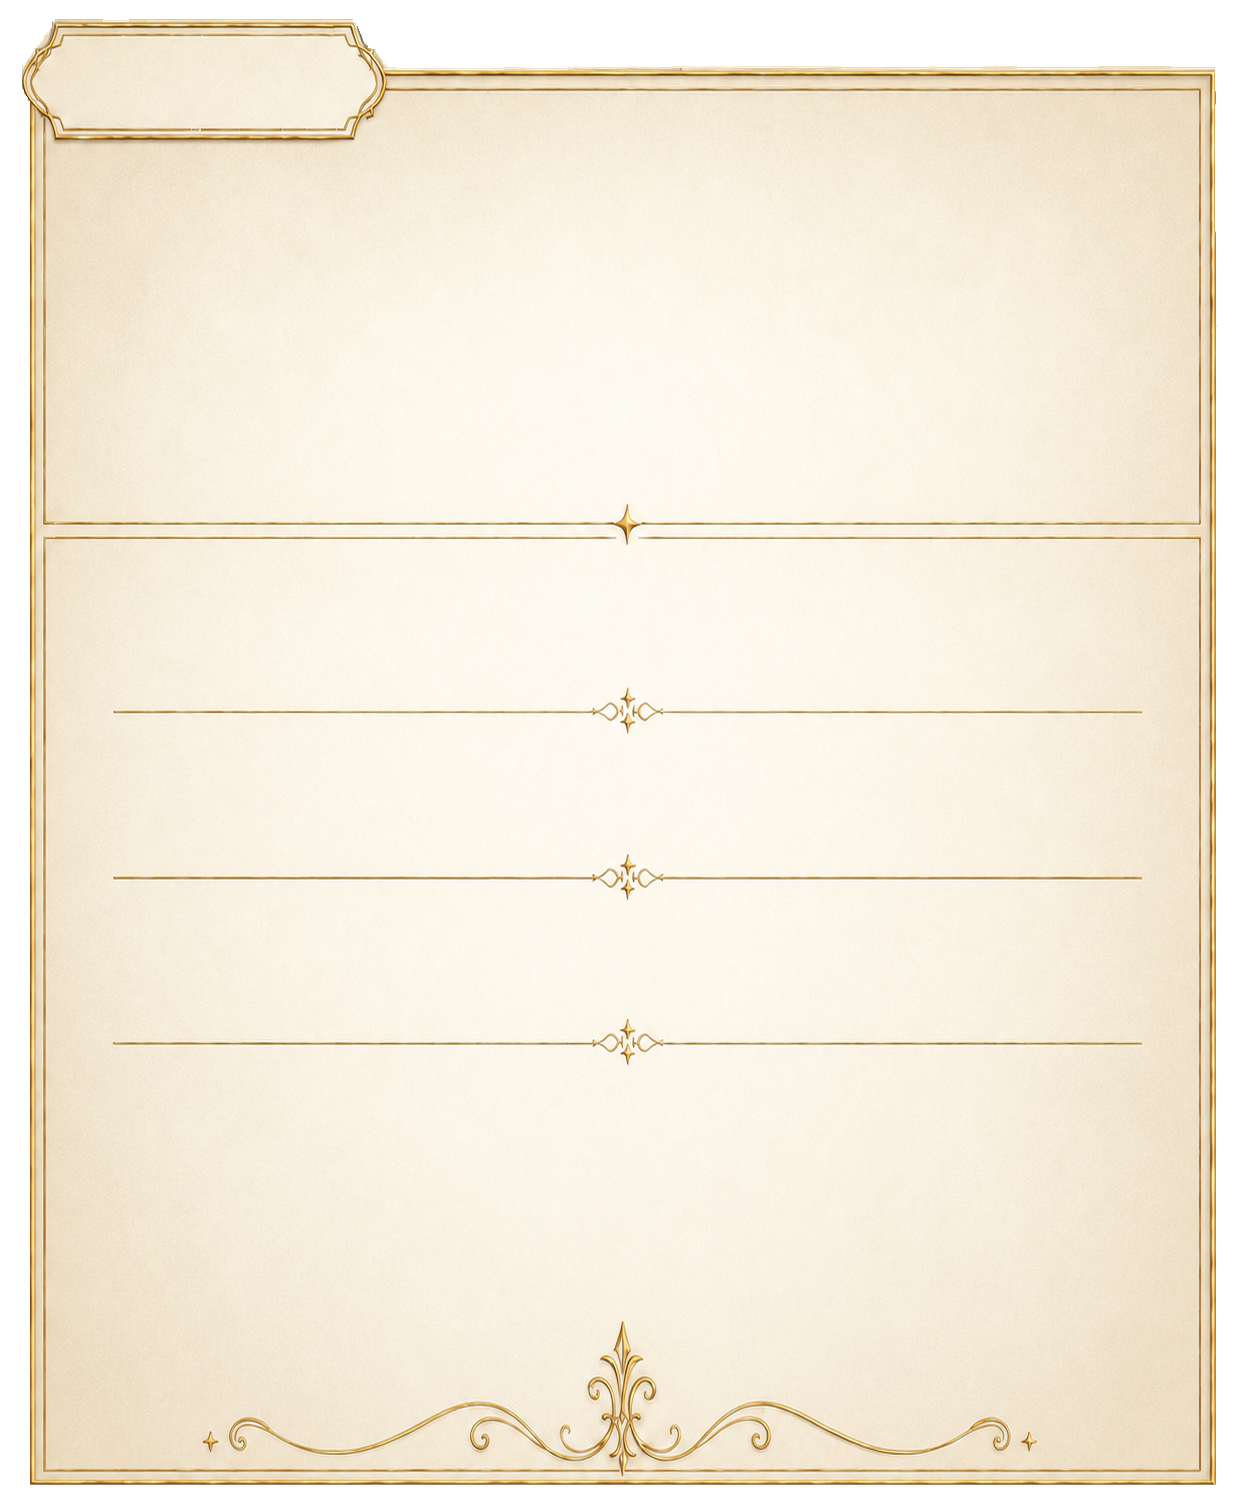
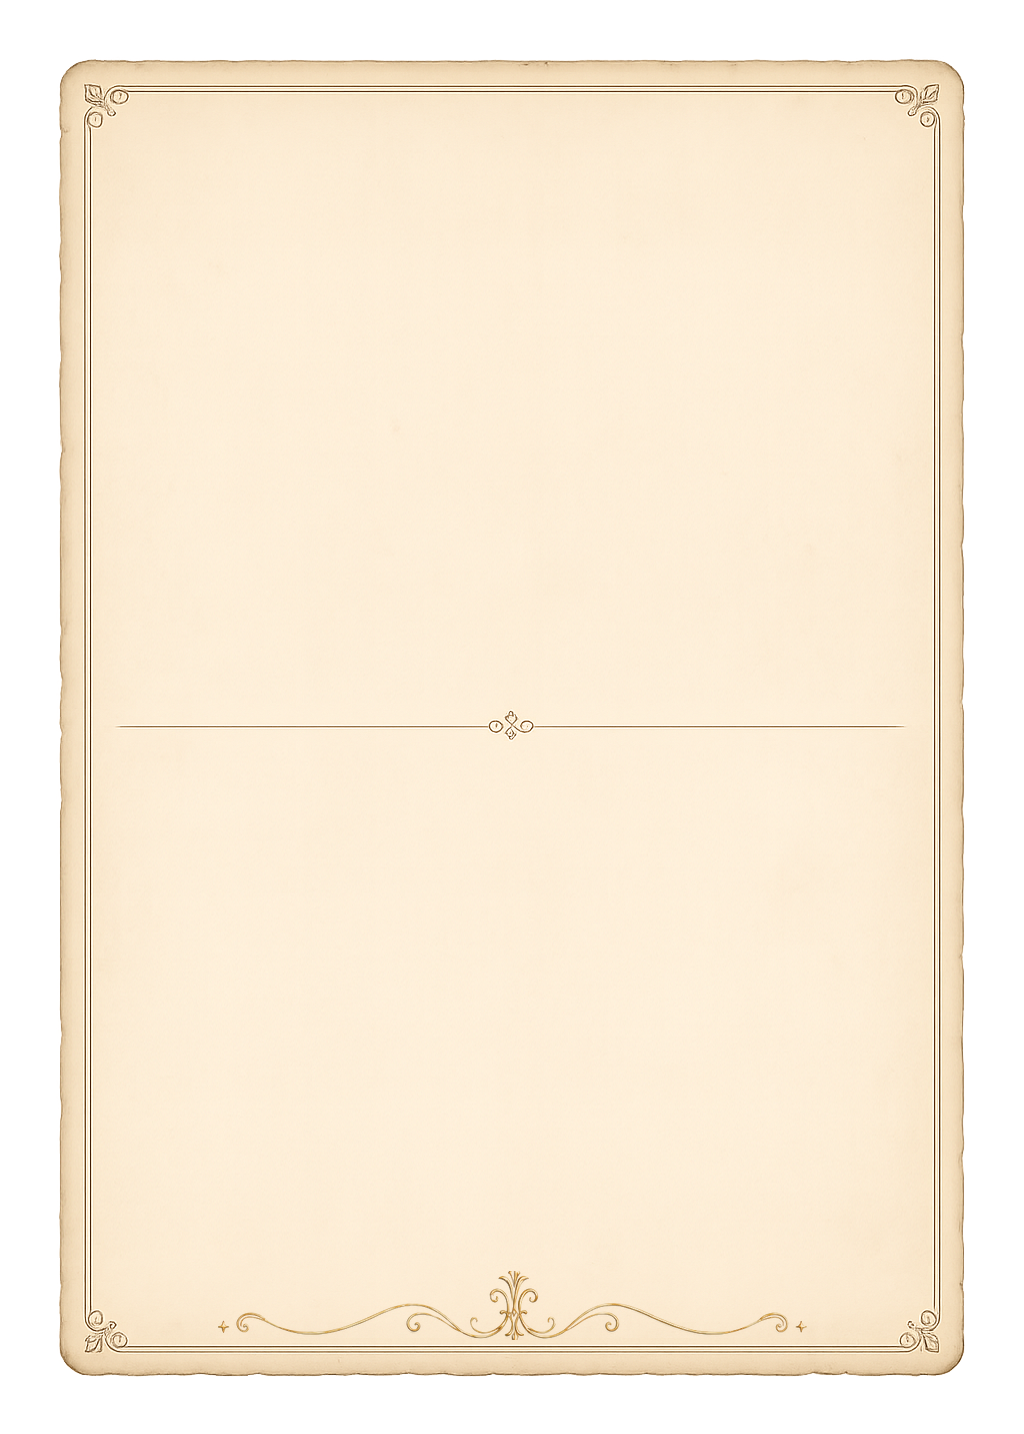
feat(町/会話): アバター会話のステータス枠を新素材(中央仕切り線・縦長1.4)へ差替＋上=6項目/下=覚えた単語を新比率で再配置(値は母語長文を2行対応)／「メッセージを送る」ボタンを会話画像とステータスの間へ移動(友だちのみ)

diff --git a/src/screens/KotobaTownScreen.tsx b/src/screens/KotobaTownScreen.tsx
@@ -914,7 +914,7 @@ export default function KotobaTownScreen() {
         const dlgW = Math.round(SW * 0.95);       // 会話ダイアログ幅=左右に少し余白
         const dlgH = Math.round(dlgW * dlgSrc.height / dlgSrc.width);
         const dlgBottom = Math.round(SW * 0.025); // 会話ダイアログの下端=会話画像の下端から少し上(下に余白)
-        const stH = Math.round(FW * 1.2); // ステータス枠=縦20%拡大の枠に合わせる(母語の長い文字を収める・比率配置は保たれる)
+        const stH = Math.round(FW * 1.4); // ステータス枠=新素材(1024x1434=縦横比1.4)に合わせる。中央仕切り線(0.506)で上=6項目/下=覚えた単語。母語の長文を収める縦余裕。
         // 台詞は「1文=1ページ」で分割し、…で切れないようにする(長い名前で折り返しても3行まで収まる)。▽で送る。
         const pages: string[] = [
           t('persona.talk.greet', { nick: talk.nick }),
@@ -990,18 +990,27 @@ export default function KotobaTownScreen() {
                   <Image source={SET.down[0]} style={{ width: avH, height: avH }} resizeMode="contain" />
                 </View>
               </View>
-              {/* ② ステータス枠(正方形・会話画像の下)。上半分=6項目 / 下半分=覚えた単語(漢字/語彙/文法) 3バー。 */}
+              {/* 「メッセージを送る」ボタン=会話画像とステータスの間(友だち=id=friend: にだけ表示)。押すと応援メッセージ画面へ。 */}
+              {talk.id.startsWith('friend:') && (
+                <View style={{ width: FW, alignSelf: 'center', alignItems: 'center', marginTop: Math.round(FW * 0.025), marginBottom: Math.round(FW * 0.055), zIndex: 5 }}>
+                  <Pressable style={s.msgSendBtn} onPress={openMsg}>
+                    <Ionicons name="chatbubble-ellipses" size={18} color="#fff" />
+                    <Text style={s.msgSendBtnT}>{t('town.msg_send_btn')}</Text>
+                  </Pressable>
+                </View>
+              )}
+              {/* ② ステータス枠(新素材・会話画像の下)。上半分=6項目 / 下半分=覚えた単語(漢字/語彙/文法) 3バー。 */}
               <View style={{ width: FW, height: stH, alignSelf: 'center', marginTop: -Math.round(FW * 0.045) }}>
                 <Image source={STATUSBOX} style={{ position: 'absolute', width: FW, height: stH }} resizeMode="contain" />
-                {/* 6項目: 2列×3行。各セル=ラベル(上)＋値(下・列幅いっぱい・自動縮小)＋下線。英語/ネパール語でも消えない。 */}
+                {/* 6項目: 2列×3行=上半分(仕切り線0.506の上)。各セル=ラベル(上)＋値(下・列幅いっぱい・母語の長文は2行まで＋自動縮小)＋下線(行下端固定)。 */}
                 {FIELDS.map((f, i) => {
-                  const y = stH * (0.15 + i * 0.118);   // 行の上端(ラベル)
-                  const vy = y + fsLab * 1.15;          // 値(ラベルの下)
-                  const uy = vy + fsVal * 1.25;         // 下線(値の下)
+                  const y = stH * (0.10 + i * 0.128);   // 行の上端(ラベル)。上半分を3行で使う。
+                  const vy = y + fsLab * 1.3;           // 値(ラベルの下)
+                  const uy = y + stH * 0.112;           // 下線=行の下端(値の行数に依らず固定)
                   const cell = (x: number, lab: string, val: string, w: number) => (
                     <>
                       <Text numberOfLines={1} style={{ position: 'absolute', left: FW * x, width: FW * w, top: y, color: subCol, fontSize: fsLab, fontWeight: '600' }}>{lab}</Text>
-                      <Text numberOfLines={1} adjustsFontSizeToFit minimumFontScale={0.6} style={{ position: 'absolute', left: FW * x, width: FW * w, top: vy, color: inkCol, fontSize: fsVal, fontWeight: '600' }}>{val}</Text>
+                      <Text numberOfLines={2} adjustsFontSizeToFit minimumFontScale={0.5} style={{ position: 'absolute', left: FW * x, width: FW * w, top: vy, color: inkCol, fontSize: fsVal, lineHeight: Math.round(fsVal * 1.08), fontWeight: '600' }}>{val}</Text>
                       <View style={{ position: 'absolute', left: FW * x, width: FW * w, top: uy, height: 1, backgroundColor: 'rgba(120,95,46,0.35)' }} />
                     </>
                   );
@@ -1012,11 +1021,11 @@ export default function KotobaTownScreen() {
                     </View>
                   );
                 })}
-                {/* 見出し「覚えた単語」(中央・区切り線の下)。 */}
-                <Text style={{ position: 'absolute', top: stH * 0.53, left: 0, right: 0, textAlign: 'center', color: subCol, fontSize: FS_LAB, fontWeight: '600', letterSpacing: 2 }}>{t('town.learned_words')}</Text>
-                {/* 3バー: 漢字/語彙/文法 = 内訳(色分け)＋語数。 */}
+                {/* 見出し「覚えた単語」(中央・仕切り線0.506の下)。 */}
+                <Text style={{ position: 'absolute', top: stH * 0.55, left: 0, right: 0, textAlign: 'center', color: subCol, fontSize: FS_LAB, fontWeight: '600', letterSpacing: 2 }}>{t('town.learned_words')}</Text>
+                {/* 3バー: 漢字/語彙/文法 = 内訳(色分け)＋語数=下半分。 */}
                 {CATS.map((c, i) => {
-                  const y = stH * (0.63 + i * 0.105);
+                  const y = stH * (0.63 + i * 0.093);
                   const bx0 = FW * 0.28, bx1 = FW * 0.76, bw = bx1 - bx0;
                   const fill = Math.max(0.04, Math.min(1, 0.82 * c.n / catMax));
                   return (
@@ -1030,15 +1039,8 @@ export default function KotobaTownScreen() {
                   );
                 })}
               </View>
-              {/* 下: 「メッセージを送る」ボタンだけ(友だち=id=friend: にだけ表示)。押すと応援メッセージ画面へ。 */}
-              {talk.id.startsWith('friend:') && (
-                <View style={{ width: FW, alignSelf: 'center', paddingTop: 2, paddingBottom: 40 }}>
-                  <Pressable style={s.msgSendBtn} onPress={openMsg}>
-                    <Ionicons name="chatbubble-ellipses" size={18} color="#fff" />
-                    <Text style={s.msgSendBtnT}>{t('town.msg_send_btn')}</Text>
-                  </Pressable>
-                </View>
-              )}
+              {/* 下端の余白(スクロール終端)。 */}
+              <View style={{ height: 40 }} />
             </ScrollView>
             {/* 閉じる(はっきり見える白フチの丸)。下スワイプでも抜けられる。 */}
             <Pressable onPress={closeTalk} hitSlop={12} style={s.nvClose}><Ionicons name="close" size={19} color="#ffffff" /></Pressable>
@@ -1062,7 +1064,7 @@ export default function KotobaTownScreen() {
         const dlgW = Math.round(SW * 0.95);       // 会話ダイアログ幅=左右に少し余白
         const dlgH = Math.round(dlgW * dlgSrc.height / dlgSrc.width);
         const dlgBottom = Math.round(SW * 0.025); // 会話ダイアログの下端=会話画像の下端から少し上(下に余白)
-        const stH = Math.round(FW * 1.2); // ステータス枠=縦20%拡大の枠に合わせる(桜側・母語の長い文字を収める)
+        const stH = Math.round(FW * 1.4); // ステータス枠=新素材(縦横比1.4)に合わせる(桜側・中央仕切り線で上下分割・母語の長文を収める)
         const sayCol = isDay ? '#2d2113' : '#eaf1ff';
         const sayName = isDay ? '#9a6e1b' : '#ffd66e';
         const inkCol = '#2d2113', subCol = '#7a5f2e';
@@ -1112,13 +1114,13 @@ export default function KotobaTownScreen() {
               <View style={{ width: FW, height: stH, alignSelf: 'center', marginTop: -Math.round(FW * 0.045) }}>
                 <Image source={STATUSBOX} style={{ position: 'absolute', width: FW, height: stH }} resizeMode="contain" />
                 {SFIELDS.map((f, i) => {
-                  const y = stH * (0.15 + i * 0.118);
-                  const vy = y + fsLab * 1.15;
-                  const uy = vy + fsVal * 1.25;
+                  const y = stH * (0.10 + i * 0.128);
+                  const vy = y + fsLab * 1.3;
+                  const uy = y + stH * 0.112;
                   const cell = (x: number, lab: string, val: string, w: number) => (
                     <>
                       <Text numberOfLines={1} style={{ position: 'absolute', left: FW * x, width: FW * w, top: y, color: subCol, fontSize: fsLab, fontWeight: '600' }}>{lab}</Text>
-                      <Text numberOfLines={1} adjustsFontSizeToFit minimumFontScale={0.6} style={{ position: 'absolute', left: FW * x, width: FW * w, top: vy, color: inkCol, fontSize: fsVal, fontWeight: '600' }}>{val}</Text>
+                      <Text numberOfLines={2} adjustsFontSizeToFit minimumFontScale={0.5} style={{ position: 'absolute', left: FW * x, width: FW * w, top: vy, color: inkCol, fontSize: fsVal, lineHeight: Math.round(fsVal * 1.08), fontWeight: '600' }}>{val}</Text>
                       <View style={{ position: 'absolute', left: FW * x, width: FW * w, top: uy, height: 1, backgroundColor: 'rgba(120,95,46,0.35)' }} />
                     </>
                   );
@@ -1129,10 +1131,10 @@ export default function KotobaTownScreen() {
                     </View>
                   );
                 })}
-                {/* 覚えた単語=桜はマックス(3バー満タン)。 */}
-                <Text style={{ position: 'absolute', top: stH * 0.53, left: 0, right: 0, textAlign: 'center', color: subCol, fontSize: FS_LAB, fontWeight: '600', letterSpacing: 2 }}>{t('town.learned_words')}</Text>
+                {/* 覚えた単語=桜はマックス(3バー満タン)=下半分。 */}
+                <Text style={{ position: 'absolute', top: stH * 0.55, left: 0, right: 0, textAlign: 'center', color: subCol, fontSize: FS_LAB, fontWeight: '600', letterSpacing: 2 }}>{t('town.learned_words')}</Text>
                 {[{ lab: t('town.facet.kanji'), col: '#4a7fc0' }, { lab: t('town.facet.vocab'), col: '#6f9a3f' }, { lab: t('town.facet.grammar'), col: '#c0603a' }].map((c, i) => {
-                  const y = stH * (0.63 + i * 0.105);
+                  const y = stH * (0.63 + i * 0.093);
                   const bx0 = FW * 0.28, bx1 = FW * 0.76, bw = bx1 - bx0;
                   return (
                     <View key={`sc${i}`} pointerEvents="none" style={StyleSheet.absoluteFill}>
